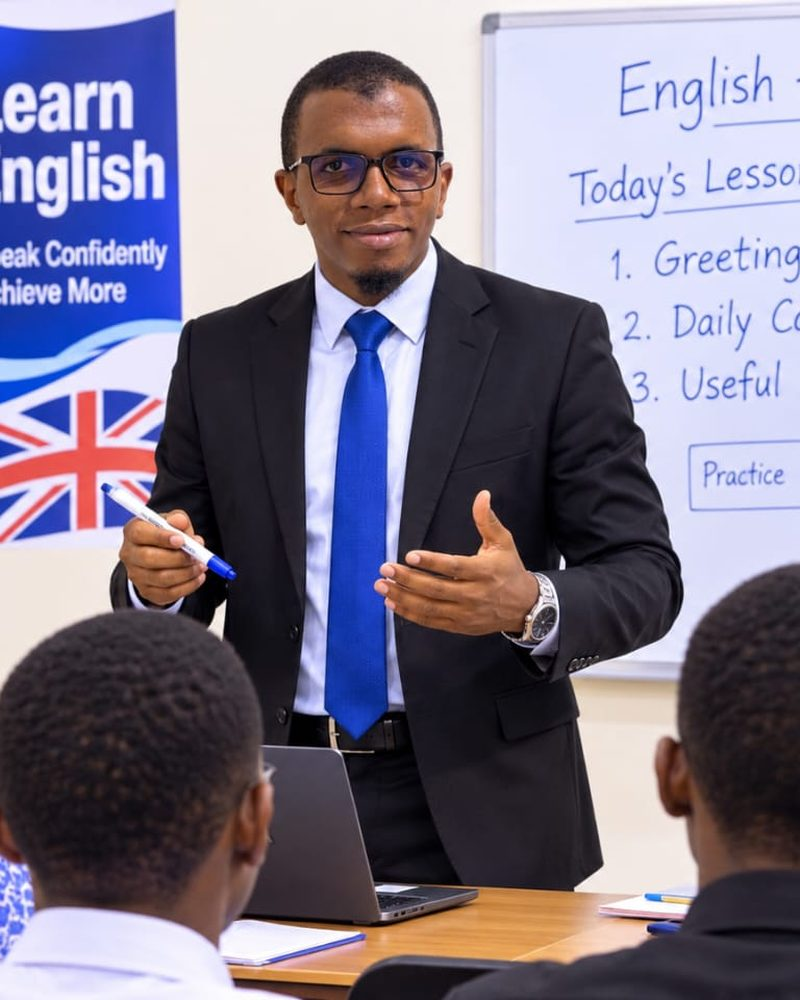
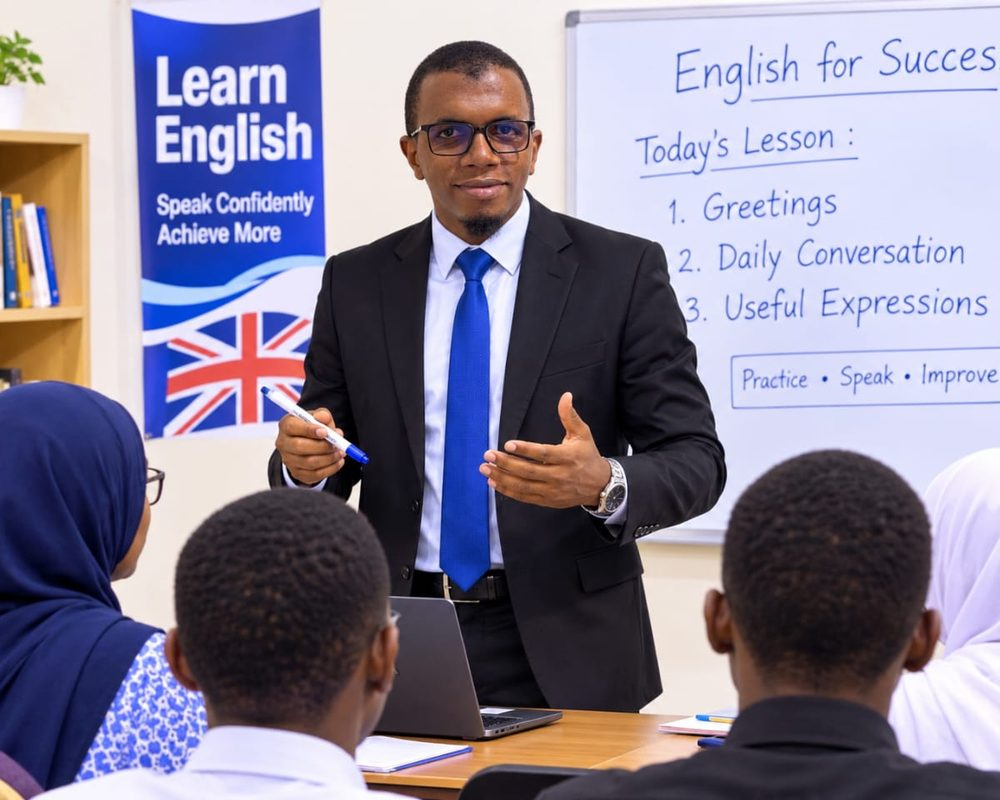
photo classe

diff --git a/app/page.tsx b/app/page.tsx
@@ -202,11 +202,11 @@ export default function Accueil() {
               </defs>
               <rect width="100%" height="100%" fill="url(#pts)" />
             </svg>
-            <div className="relative aspect-[5/6] overflow-hidden rounded-[2rem] bg-royal/10 shadow-[0_40px_70px_-34px_rgb(20_36_58/0.6)] ring-1 ring-nuit/10 md:aspect-[4/5]">
+            <div className="relative aspect-[5/4] overflow-hidden rounded-[2rem] bg-royal/10 shadow-[0_40px_70px_-34px_rgb(20_36_58/0.6)] ring-1 ring-nuit/10">
               <HeroPhoto />
               <div className="pointer-events-none absolute inset-x-0 bottom-0 h-1/3 bg-gradient-to-t from-nuit/45 to-transparent" />
             </div>
-            <p className="flotte absolute -left-2 bottom-8 flex items-center gap-2.5 rounded-2xl bg-white/90 px-4 py-3 text-sm font-bold text-nuit shadow-[0_18px_34px_-18px_rgb(20_36_58/0.6)] ring-1 ring-nuit/10 backdrop-blur sm:-left-6">
+            <p className="flotte absolute -bottom-4 -left-2 flex items-center gap-2.5 rounded-2xl bg-white/90 px-4 py-3 text-sm font-bold text-nuit shadow-[0_18px_34px_-18px_rgb(20_36_58/0.6)] ring-1 ring-nuit/10 backdrop-blur sm:-left-6">
               <span className="relative flex size-3" aria-hidden="true">
                 <span className="absolute inline-flex size-full animate-ping rounded-full bg-cuivre opacity-60" />
                 <span className="relative inline-flex size-3 rounded-full bg-cuivre" />

diff --git a/components/HeroPhoto.tsx b/components/HeroPhoto.tsx
@@ -25,13 +25,13 @@ export default function HeroPhoto() {
     <img
       ref={img}
       src="/apprenant.jpg"
-      width={800}
-      height={1000}
+      width={1000}
+      height={800}
       alt="Le professeur anime un cours d’anglais devant ses élèves"
       fetchPriority="high"
       onLoad={() => setEtat('ok')}
       onError={() => setEtat('absente')}
-      className={`hero-zoom absolute inset-0 h-full w-full object-cover object-[50%_32%] transition-opacity duration-700 ${
+      className={`hero-zoom absolute inset-0 h-full w-full object-cover object-center transition-opacity duration-700 ${
         etat === 'ok' ? 'opacity-100' : 'opacity-0'
       }`}
     />
